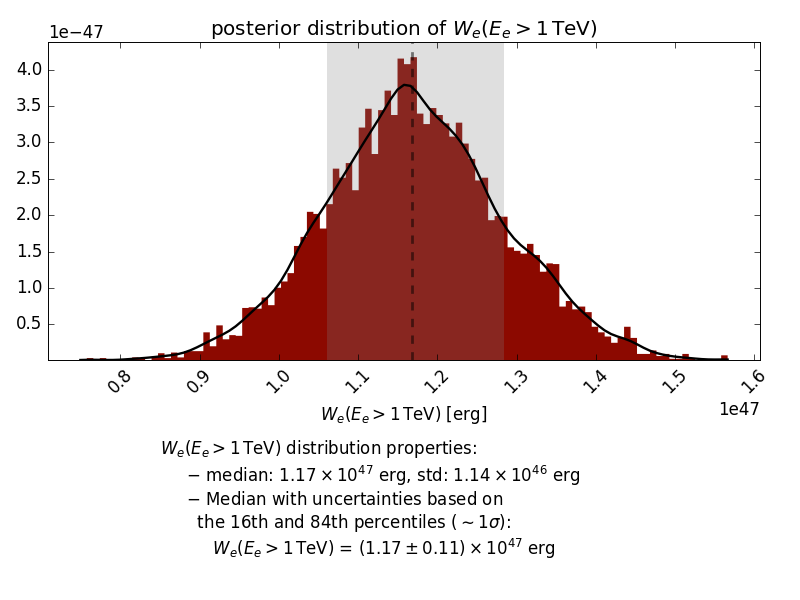
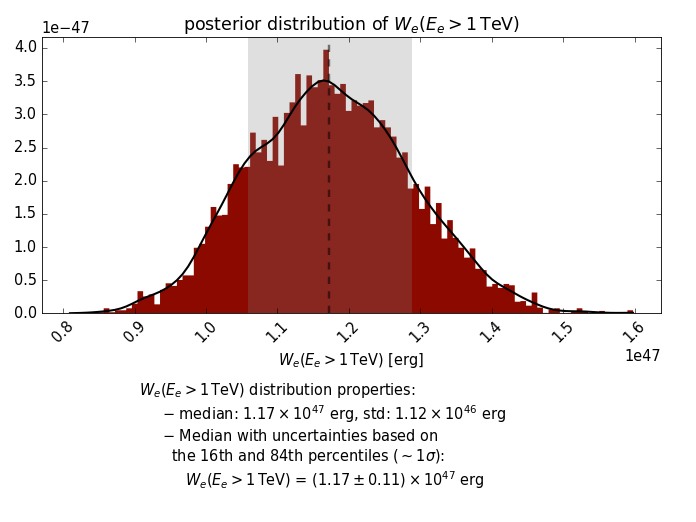
change tutorial image width [skip CI]

diff --git a/docs/_static/RXJ1713_IC.py b/docs/_static/RXJ1713_IC.py
@@ -23,7 +23,7 @@ def ElectronIC(pars,data):
 
     # compute flux at the energies given in data['energy'], and convert to units
     # of flux data
-    model = IC.flux(data, distance=1.0 * u.kpc).to(data['flux'].unit)
+    model = IC.flux(data, distance=1.0 * u.kpc)
 
     # Save this realization of the particle distribution function
     elec_energy = np.logspace(11,15,100) * u.eV
@@ -70,7 +70,7 @@ if __name__=='__main__':
     # Run sampler
         sampler,pos = naima.run_sampler(data_table=data, p0=p0, labels=labels,
                 model=ElectronIC, prior=lnprior, nwalkers=128, nburn=100,
-                nrun=100, threads=4, prefit=True)
+                nrun=100, threads=4, prefit=True, interactive=True)
     # Save sampler
         naima.save_run('RXJ1713_IC_sampler.hdf5', sampler)
 
@@ -96,9 +96,9 @@ if __name__=='__main__':
 
     print('Plotting chains...')
     f = naima.plot_chain(sampler, 1)
-    f.savefig('RXJ1713_IC_chain_index.png')
+    f.savefig('RXJ1713_IC_chain_index.png', dpi=87)
     f = naima.plot_chain(sampler, 2)
-    f.savefig('RXJ1713_IC_chain_cutoff.png')
+    f.savefig('RXJ1713_IC_chain_cutoff.png', dpi=87)
 
     #e_range = [sampler.data['energy'][0]/5, sampler.data['energy'][-1]*5]
     e_range = [100*u.GeV, 500*u.TeV]
@@ -109,13 +109,13 @@ if __name__=='__main__':
     f.axes[0].set_ylim(1e-13,2e-10)
     f.tight_layout()
     f.subplots_adjust(hspace=0)
-    f.savefig('RXJ1713_IC_model_samples.png')
+    f.savefig('RXJ1713_IC_model_samples.png', dpi=87)
     print('Plotting samples with e_range...')
     f = naima.plot_fit(sampler, 0, e_range=e_range, ML_info=False, n_samples=500)
     f.axes[0].set_ylim(1e-13,2e-10)
     f.tight_layout()
     f.subplots_adjust(hspace=0)
-    f.savefig('RXJ1713_IC_model_samples_erange.png')
+    f.savefig('RXJ1713_IC_model_samples_erange.png', dpi=87)
     #f.savefig('RXJ1713_IC_model_samples_erange.pdf')
 
     # with confs
@@ -124,23 +124,24 @@ if __name__=='__main__':
     f.axes[0].set_ylim(1e-13,2e-10)
     f.tight_layout()
     f.subplots_adjust(hspace=0)
-    f.savefig('RXJ1713_IC_model_confs.png')
+    f.savefig('RXJ1713_IC_model_confs.png', dpi=87)
     print('Plotting confs with e_range...')
     f = naima.plot_fit(sampler, 0, e_range=e_range, ML_info=False, confs=[3,1])
     f.axes[0].set_ylim(1e-13,2e-10)
     f.tight_layout()
     f.subplots_adjust(hspace=0)
-    f.savefig('RXJ1713_IC_model_confs_erange.png')
+    f.savefig('RXJ1713_IC_model_confs_erange.png', dpi=87)
 
     print('Plotting corner...')
     f = naima.plot_corner(sampler)
-    f.savefig('RXJ1713_IC_corner.png')
+    w = f.get_size_inches()[0]
+    f.savefig('RXJ1713_IC_corner.png', dpi=696./w)
 
     print('Plotting blobs...')
     f = naima.plot_blob(sampler, 1, ML_info=False, label='Electron energy distribution',
             xlabel=r'Electron energy [$\mathrm{TeV}$]')
     f.tight_layout()
-    f.savefig('RXJ1713_IC_pdist.png')
+    f.savefig('RXJ1713_IC_pdist.png', dpi=87)
     f = naima.plot_blob(sampler, 2, label=r'$W_e(E_e>1\,\mathrm{TeV})$')
-    f.savefig('RXJ1713_IC_We.png')
+    f.savefig('RXJ1713_IC_We.png', dpi=87)
 
